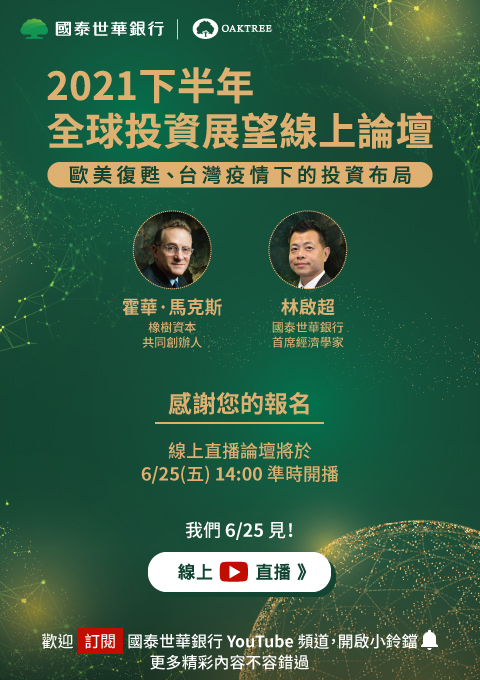
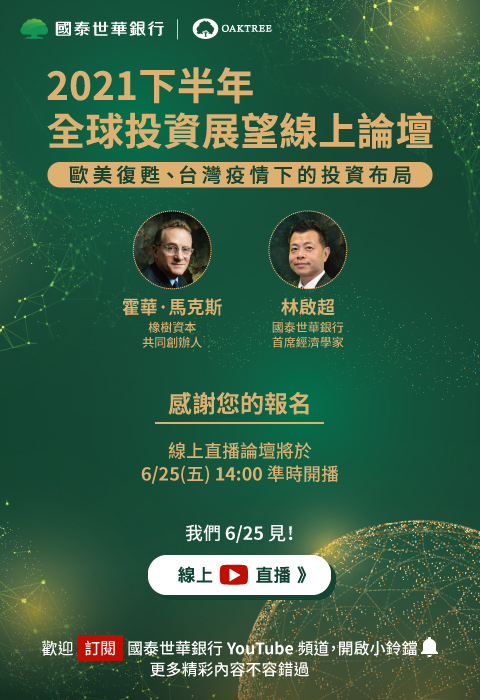
update

diff --git a/Cathay-forum-The second half of 2021 reminder/index.html b/Cathay-forum-The second half of 2021 reminder/index.html
@@ -178,7 +178,7 @@ font-family:'Microsoft JhengHei',Arial,'微軟正黑體', sans-serif;
               <![endif]-->
               <table border="0" cellpadding="0" cellspacing="0" style="width: 100%;background:#b0b6bd;float:left;text-align:center;height:auto;">
                <tr bgcolor="#FFFFFF">
-      <td height="" align="center" style="color:#FFF; font-size:36px;"><img src="images/EDM-B.jpg" alt="2021下半年 全球投資展望線上論壇" width="480" height="680" usemap="#Map" border="0"/></td>
+      <td height="" align="center" style="color:#FFF; font-size:36px;"><img src="images/EDM-B.jpg" alt="2021下半年 全球投資展望線上論壇" width="480" height="700" usemap="#Map" border="0"/></td>
     </tr>
               </table>
               <!--[if mso]>
@@ -368,8 +368,8 @@ font-family:'Microsoft JhengHei',Arial,'微軟正黑體', sans-serif;
 </center>
 
 <map name="Map">
-  <area shape="rect" coords="118,503,360,608" href="https://www.youtube.com/user/cathayunitedbank" target="_blank" alt="2021下半年 全球投資展望線上論壇 線上直播">
-  <area shape="rect" coords="36,628,443,674" href="https://www.youtube.com/user/cathayunitedbank" target="_blank" alt="國泰世華銀行YouTube頻道">
+  <area shape="rect" coords="35,633,442,680" href="https://www.youtube.com/user/cathayunitedbank" target="_blank" alt="國泰世華銀行YouTube頻道">
+  <area shape="rect" coords="118,505,360,613" href="https://www.youtube.com/user/cathayunitedbank" target="_blank" alt="2021下半年 全球投資展望線上論壇 線上直播">
 </map>
 </body>
 
